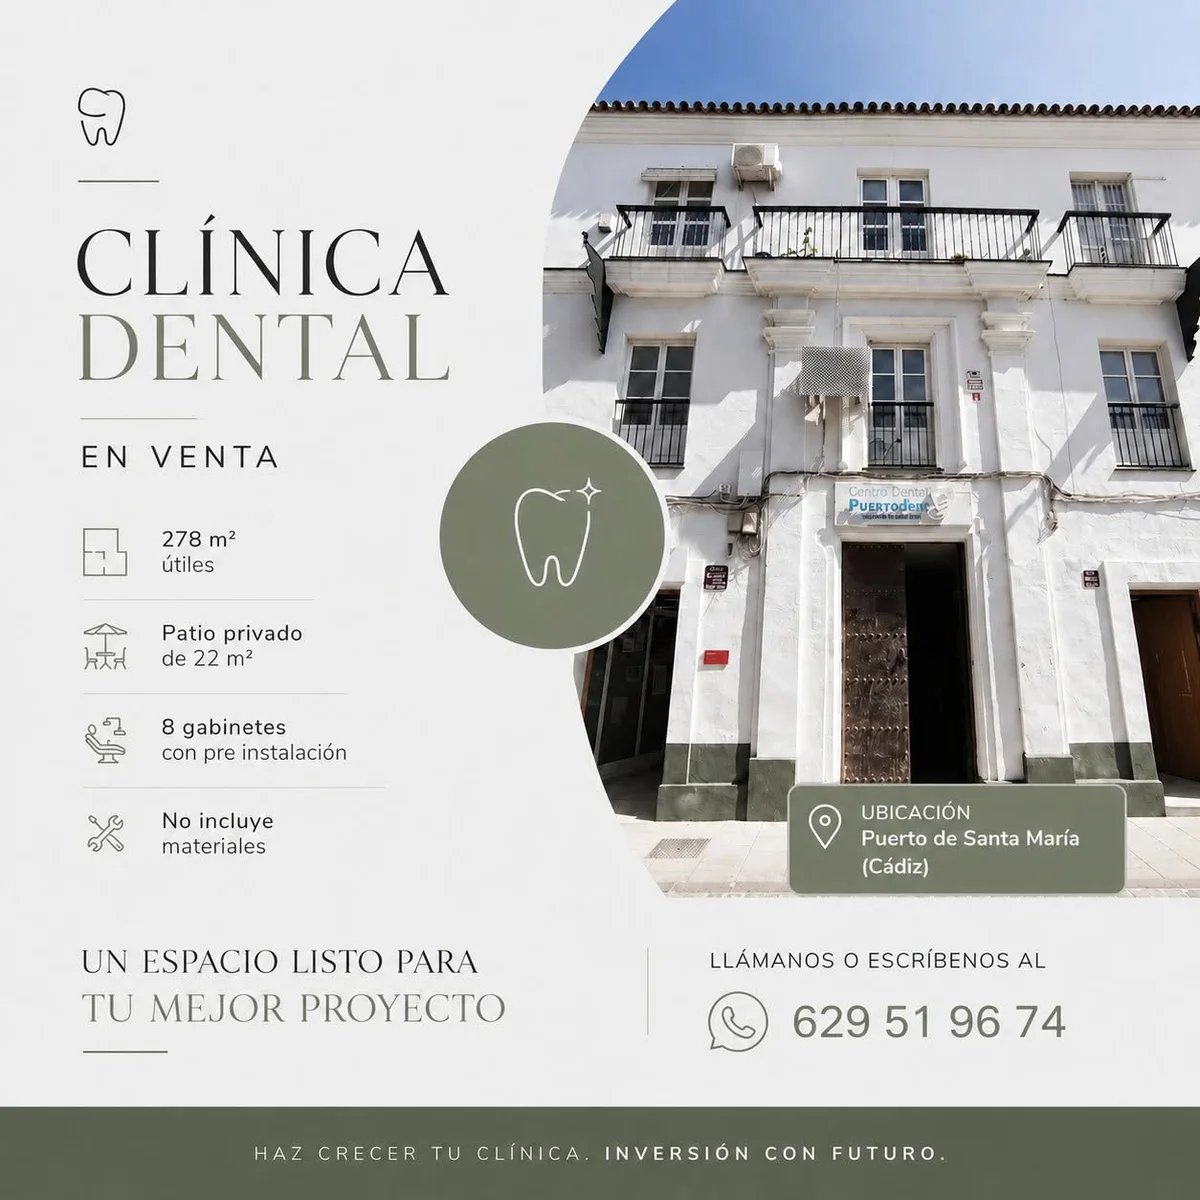
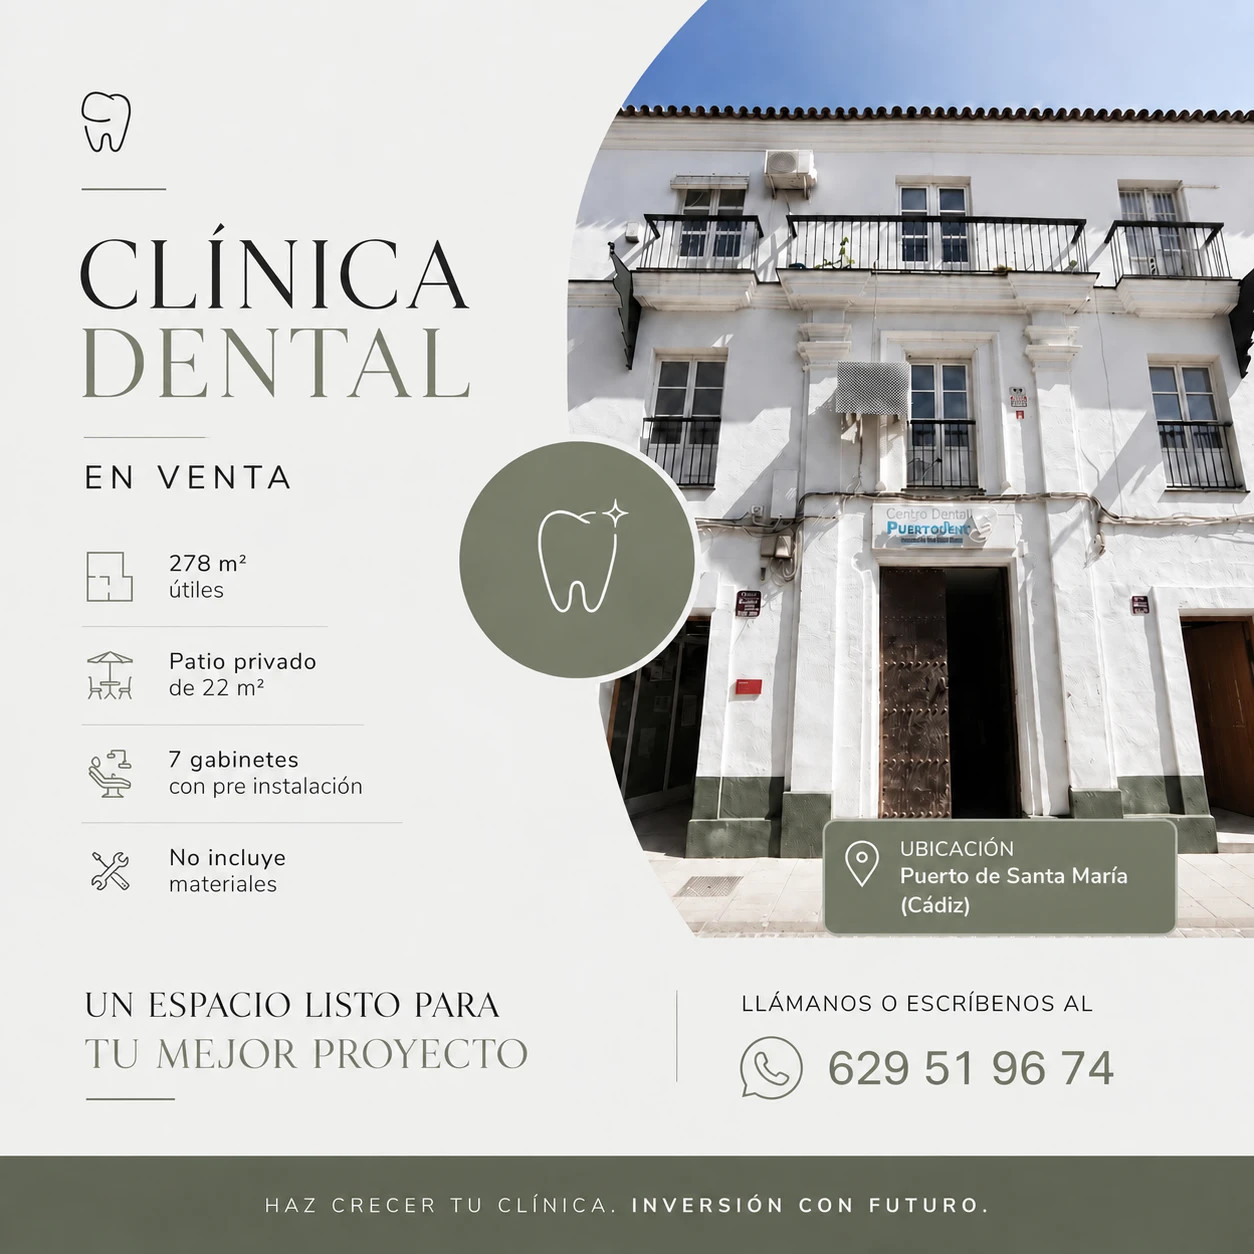
Local en Venta 2.0

diff --git a/src/app/inmueble-en-venta/page.tsx b/src/app/inmueble-en-venta/page.tsx
@@ -8,7 +8,7 @@ import WhatsAppIcon from "@/components/WhatsAppIcon";
 export const metadata: Metadata = {
   title: "Local comercial en venta · Calle Aurora, El Puerto de Santa María",
   description:
-    "Inmueble de 274 m² útiles en pleno centro de El Puerto de Santa María, acondicionado como clínica dental. 8 gabinetes, patio privado de 22 m². 585.000 €.",
+    "Inmueble de 274 m² útiles en pleno centro de El Puerto de Santa María, acondicionado como clínica dental. 7 gabinetes, patio privado de 22 m². 585.000 €.",
   alternates: { canonical: `${SITE_URL}/inmueble-en-venta` },
 };
 
@@ -18,7 +18,7 @@ const MENSAJE_WHATSAPP =
 const DATOS = [
   { icon: Ruler, label: "Superficie útil", valor: "274,12 m²" },
   { icon: Ruler, label: "Superficie construida", valor: "315,23 m²" },
-  { icon: DoorOpen, label: "Gabinetes", valor: "8 (con preinstalación)" },
+  { icon: DoorOpen, label: "Gabinetes", valor: "7 (con preinstalación)" },
   { icon: Sun, label: "Patio privado", valor: "22 m² (uso exclusivo)" },
   { icon: MapPin, label: "Ubicación", valor: "Calle Aurora, 3 · El Puerto de Santa María (Cádiz)" },
   { icon: Banknote, label: "Precio de venta", valor: "585.000 €" },

diff --git a/src/app/page.tsx b/src/app/page.tsx
@@ -72,7 +72,7 @@ export default async function HomePage() {
         className="flex flex-wrap items-center justify-center gap-x-3 gap-y-1 bg-ink px-4 py-3 text-center text-sm font-medium text-white transition hover:bg-ink/90"
       >
         <span className="rounded-full bg-brand px-2.5 py-0.5 text-xs font-bold uppercase tracking-wide">Oportunidad</span>
-        <span>Local comercial en venta en El Puerto de Santa María — 274 m², 8 gabinetes</span>
+        <span>Local comercial en venta en El Puerto de Santa María — 274 m², 7 gabinetes</span>
         <span className="underline underline-offset-2">Ver detalles →</span>
       </Link>
 
